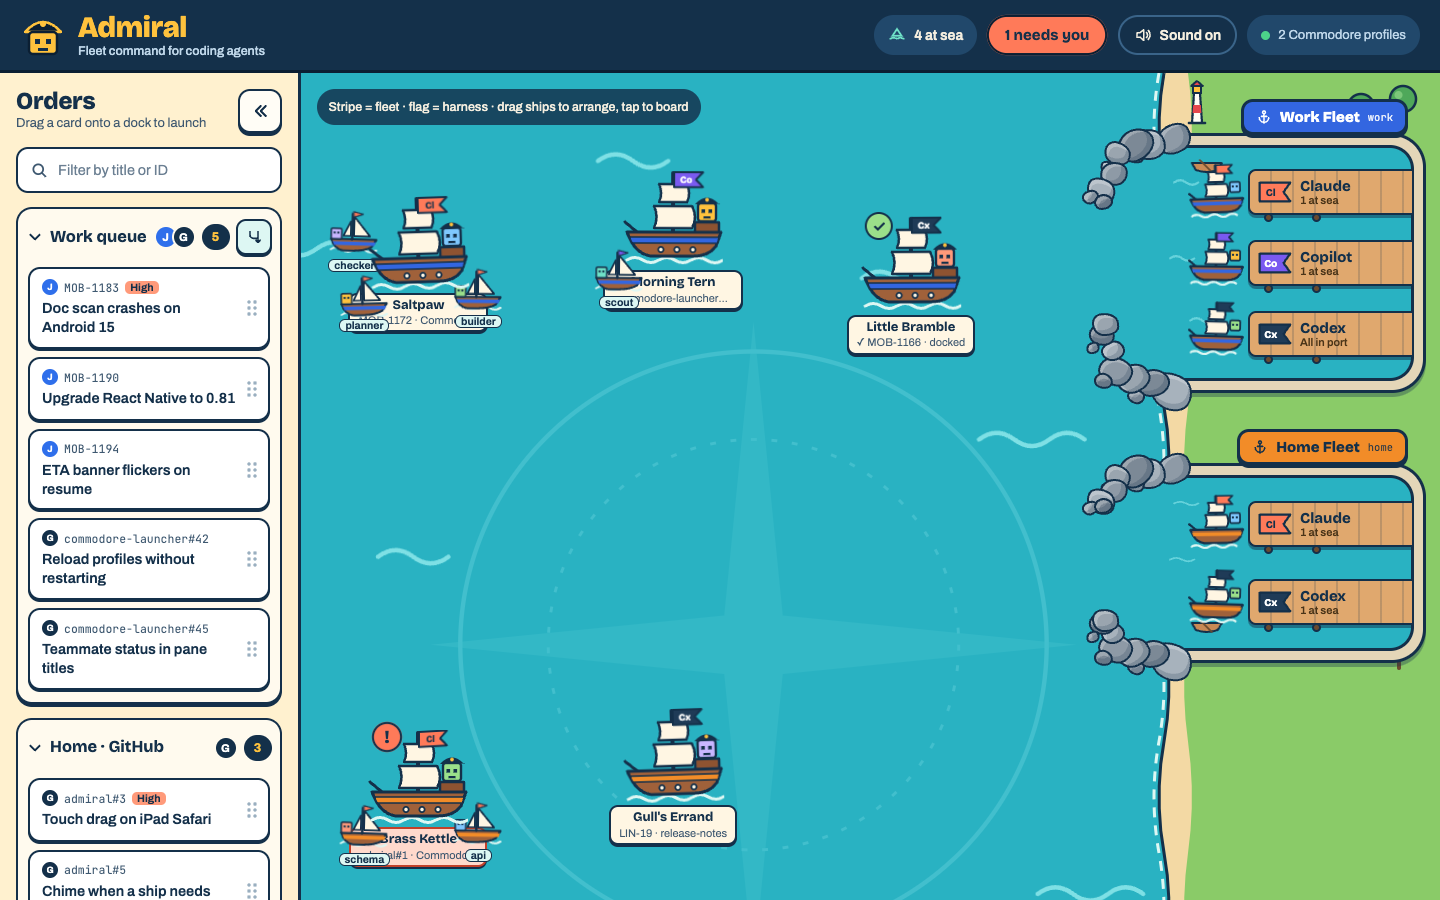
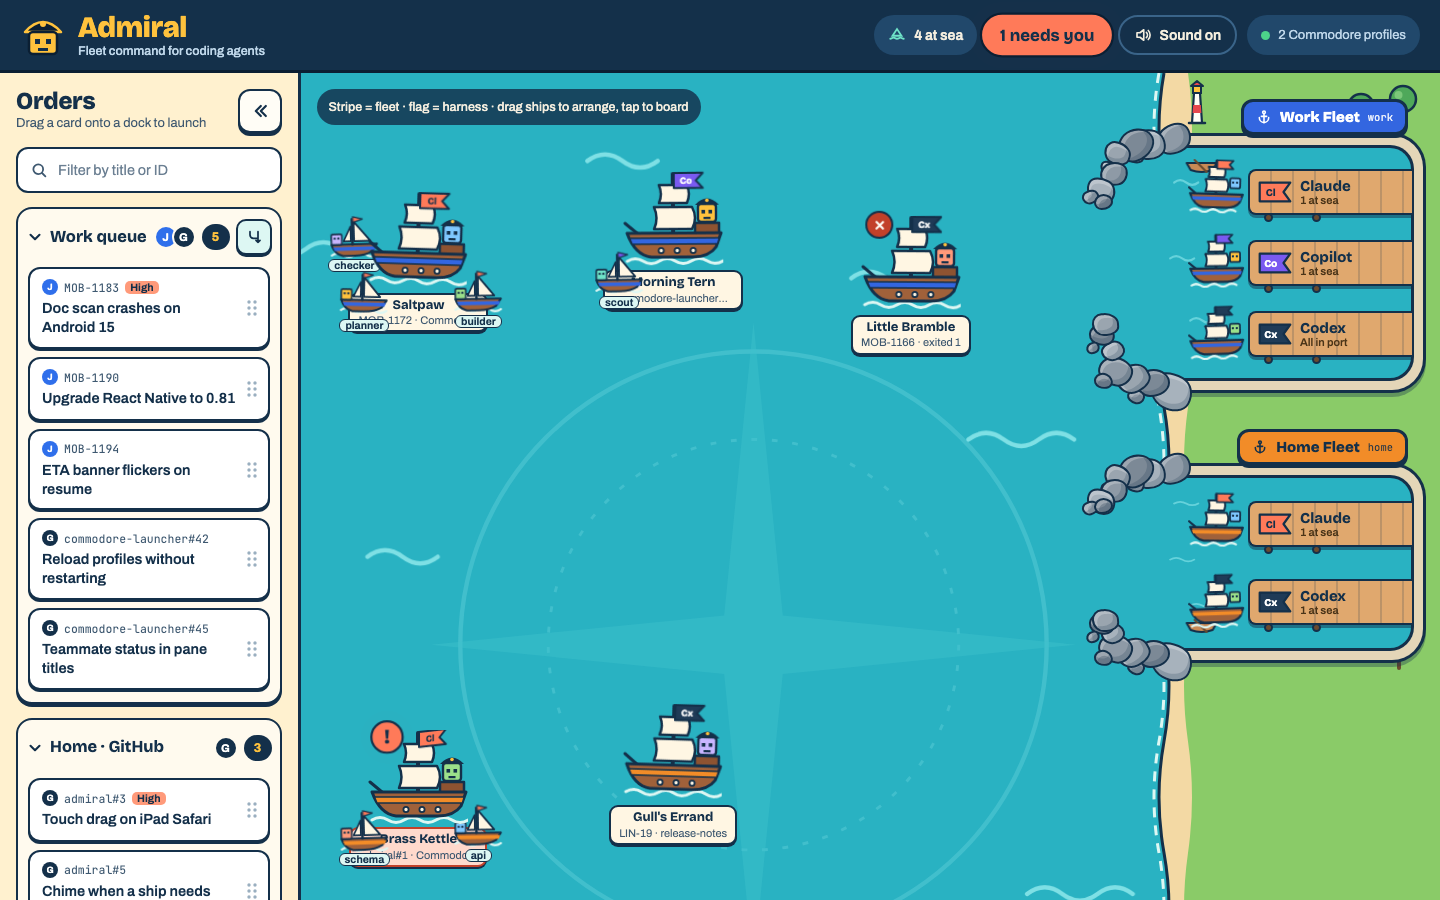
Show anchored ships as crashed in the prototype
An anchored ship only stays after an error exit (ADR 0008), so it now
carries a red mark and its exit code instead of a green check. Its
bridge is read-only on the last screen, with Dismiss in place of the
prompt and keys. Re-capture the harbor and tablet screenshots.

diff --git a/designs/prototype/index.html b/designs/prototype/index.html
@@ -63,6 +63,7 @@ a{color:#1C6FD1}a:hover{color:#14304A}
 .ln-tool{color:#6FE3C8}
 .ln-ask{color:#14304A;background:#FFC23D;border-radius:6px;padding:6px 10px;margin:4px 0}
 .ln-you{color:#FFC23D}
+.ln-err{color:#FF9A7A}
 .key{transition:background-color .12s ease}
 .key:hover{background-color:#2A5579 !important}
 .term-in::placeholder{color:#5F7F99}
@@ -260,7 +261,7 @@ a{color:#1C6FD1}a:hover{color:#14304A}
 <span class="ping" style="position: absolute; left: 4px; top: -8px; width: 30px; height: 30px; border-radius: 50%; background-color: #FF7A59; border: 2.5px solid #14304A; display: flex; align-items: center; justify-content: center; font-family: 'Bricolage Grotesque', sans-serif; font-weight: 800; font-size: 18px; color: #14304A">!</span>
 </sc-if>
 <sc-if value="{{ship.done}}" hint-placeholder-val="{{ false }}">
-<span style="position: absolute; left: 4px; top: -4px; width: 28px; height: 28px; border-radius: 50%; background-color: #9BE08A; border: 2.5px solid #14304A; display: flex; align-items: center; justify-content: center"><svg width="15" height="15" viewBox="0 0 24 24" fill="none" stroke="#14304A" stroke-width="3.4" stroke-linecap="round" stroke-linejoin="round" aria-hidden="true"><path d="M5 12.5l4.5 4.5L19 7.5"></path></svg></span>
+<span style="position: absolute; left: 4px; top: -4px; width: 28px; height: 28px; border-radius: 50%; background-color: #C2412A; border: 2.5px solid #14304A; display: flex; align-items: center; justify-content: center"><svg width="13" height="13" viewBox="0 0 24 24" fill="none" stroke="#FFFDF6" stroke-width="4" stroke-linecap="round" aria-hidden="true"><path d="M6 6l12 12M18 6L6 18"></path></svg></span>
 </sc-if>
 </span>
 <span style="{{ship.plaqueStyle}}">
@@ -381,13 +382,21 @@ a{color:#1C6FD1}a:hover{color:#14304A}
 <sc-for list="{{bridge.lines}}" as="line" hint-placeholder-count="6">
 <div class="{{line.cls}}">{{line.t}}</div>
 </sc-for>
+<sc-if value="{{bridge.live}}" hint-placeholder-val="{{ true }}">
 <form onSubmit="{{send}}" style="display: flex; align-items: center; gap: 8px; margin-top: 4px">
 <label for="adm-cmd" style="position: absolute; width: 1px; height: 1px; overflow: hidden; clip: rect(0 0 0 0)">Input to {{bridge.focusName}}</label>
 <span aria-hidden="true" style="color: #FFC23D; font-weight: 600">❯</span>
 <input id="adm-cmd" class="term-in" value="{{draft}}" onChange="{{onDraft}}" autocomplete="off" spellcheck="false" placeholder="type here and press Enter" style="flex: 1 1 auto; min-width: 0; height: 32px; padding: 0; border: 0; background: none; color: #FFC23D; font-family: 'JetBrains Mono', monospace; font-size: 13.5px; outline: none; caret-color: #FFC23D">
 </form>
+</sc-if>
 </div>
 <div style="display: flex; flex-wrap: wrap; align-items: center; gap: 8px; padding: 10px 12px; background-color: #14304A; border-top: 3px solid #0B1F33">
+<sc-if value="{{bridge.anchored}}" hint-placeholder-val="{{ false }}">
+<button type="button" class="press" onClick="{{dismiss}}" style="height: 40px; padding: 0 14px; border-radius: 10px; border: 2.5px solid #0B1F33; background-color: #FFF6E3; color: #14304A; font-family: 'Bricolage Grotesque', sans-serif; font-weight: 700; font-size: 14px; box-shadow: 0 3px 0 #0B1F33">Dismiss</button>
+<span style="flex: 1 1 auto"></span>
+<span style="font-size: 12px; color: #9DB8CF">The harness exited. This is its last screen.</span>
+</sc-if>
+<sc-if value="{{bridge.live}}" hint-placeholder-val="{{ true }}">
 <sc-if value="{{bridge.asking}}" hint-placeholder-val="{{ false }}">
 <button type="button" class="press" onClick="{{answerYes}}" style="height: 40px; padding: 0 14px; border-radius: 10px; border: 2.5px solid #0B1F33; background-color: #9BE08A; color: #14304A; font-family: 'Bricolage Grotesque', sans-serif; font-weight: 700; font-size: 14px; box-shadow: 0 3px 0 #0B1F33">Approve · y</button>
 <button type="button" class="press" onClick="{{answerNo}}" style="height: 40px; padding: 0 14px; border-radius: 10px; border: 2.5px solid #0B1F33; background-color: #FF9A7A; color: #14304A; font-family: 'Bricolage Grotesque', sans-serif; font-weight: 700; font-size: 14px; box-shadow: 0 3px 0 #0B1F33">Deny · n</button>
@@ -398,6 +407,7 @@ a{color:#1C6FD1}a:hover{color:#14304A}
 </sc-for>
 <span style="flex: 1 1 auto"></span>
 <span style="font-size: 12px; color: #9DB8CF">Keys go straight to the session</span>
+</sc-if>
 </div>
 </section>
 </div>
@@ -715,7 +725,7 @@ class Component extends DCLogic {
       { id: 's3', name: 'Brass Kettle', task: { id: 'admiral#1', title: 'Scaffold the Admiral server' }, yard: 'home:claude', skill: 'Commodore', status: 'attention', bot: B[2],
         ask: 'Teammate schema wants to run a migration on the dev database. Approve? (y/n)',
         subs: [{ id: 's3-a', name: 'schema', job: 'Model fleets, docks and ships', bot: B[3] }, { id: 's3-b', name: 'api', job: 'Session attach endpoint', bot: B[0] }] },
-      { id: 's4', name: 'Little Bramble', task: { id: 'MOB-1166', title: 'Crash report breadcrumbs' }, yard: 'work:codex', skill: 'Wayfinder', status: 'done', bot: B[3], subs: [] },
+      { id: 's4', name: 'Little Bramble', task: { id: 'MOB-1166', title: 'Crash report breadcrumbs' }, yard: 'work:codex', skill: 'Wayfinder', status: 'done', exit: 1, bot: B[3], subs: [] },
       { id: 's5', name: "Gull's Errand", task: { id: 'LIN-19', title: 'Draft the changelog' }, yard: 'home:codex', skill: 'release-notes', status: 'working', bot: B[4], subs: [] }
     ];
   }
@@ -888,7 +898,7 @@ class Component extends DCLogic {
       L.push({ k: 'tool', t: '▸ exploring the codebase' });
     }
     if (sh.status === 'attention') L.push({ k: 'ask', t: sh.ask || 'Waiting on you.' });
-    else if (sh.status === 'done') { L.push({ k: 'tool', t: '✓ pull request opened · checks green' }); L.push({ k: 'agent', t: 'Mission complete. Standing by in port.' }); }
+    else if (sh.status === 'done') { L.push({ k: 'err', t: 'Error: stream disconnected before completion' }); L.push({ k: 'sys', t: 'Pane is dead (status ' + sh.exit + ')' }); }
     else L.push({ k: 'agent', t: 'Underway.' });
     return L;
   }
@@ -999,7 +1009,7 @@ class Component extends DCLogic {
       const pl = s.place[sh.id];
       const attn = sh.status === 'attention';
       const done = sh.status === 'done';
-      const statusText = attn ? 'needs your attention' : done ? 'mission complete' : 'underway';
+      const statusText = attn ? 'needs your attention' : done ? 'anchored, exited ' + sh.exit : 'underway';
       return {
         id: sh.id, name: sh.name, task: sh.task, skill: sh.skill, bot: sh.bot,
         harness: h.name, fleetName: f.name, fleetColor: f.color, flag: h.flag, flagInk: h.ink, mono: h.mono,
@@ -1010,7 +1020,7 @@ class Component extends DCLogic {
         delay: '-' + (i * 0.8).toFixed(1) + 's',
         flagCls: attn ? 'flag frantic' : 'flag wave',
         attn, done,
-        label: done ? '✓ ' + sh.task.id + ' · anchored' : sh.task.id + ' · ' + sh.skill,
+        label: done ? sh.task.id + ' · exited ' + sh.exit : sh.task.id + ' · ' + sh.skill,
         plaqueStyle: 'display: block; margin-top: -2px; padding: 3px 8px; max-width: 140px; border-radius: 9px; background-color: ' + (attn ? '#FFD9CC' : '#FFF6E3') + '; border: 2.5px solid ' + (attn ? '#C2412A' : '#14304A') + '; box-shadow: 0 2px 0 #14304A',
         aria: 'Board ' + sh.name + ', ' + h.name + ' in ' + f.name + ', ' + statusText,
         open: () => { if (!self.recentDrag()) self.put({ open: sh.id, focus: 'lead', draft: '' }); },
@@ -1047,8 +1057,9 @@ class Component extends DCLogic {
           ship: sh, agents, lines, focusName: focusAgent.label,
           crewCount: list.length,
           asking: sh.attn && focusAgent.id === 'lead',
-          statusText: sh.attn ? 'Needs you' : sh.done ? 'Anchored' : 'Underway',
-          statusStyle: 'font-family: Bricolage Grotesque, sans-serif; font-weight: 700; font-size: 13px; padding: 4px 12px; border-radius: 999px; border: 2px solid #14304A; color: #14304A; background-color: ' + (sh.attn ? '#FF7A59' : sh.done ? '#9BE08A' : '#6FE3C8')
+          live: !sh.done, anchored: sh.done,
+          statusText: sh.attn ? 'Needs you' : sh.done ? 'Anchored · exit ' + rawSh.exit : 'Underway',
+          statusStyle: 'font-family: Bricolage Grotesque, sans-serif; font-weight: 700; font-size: 13px; padding: 4px 12px; border-radius: 999px; border: 2px solid #14304A; color: #14304A; background-color: ' + (sh.attn ? '#FF7A59' : sh.done ? '#FF9A7A' : '#6FE3C8')
         };
       }
     }
@@ -1110,6 +1121,7 @@ class Component extends DCLogic {
       answerYes: () => self.sendRaw('y', { k: 'tool', t: '✓ approved. Carrying on.' }),
       answerNo: () => self.sendRaw('n', { k: 'agent', t: 'Understood. Trying another approach.' }),
       closeBridge: () => self.put({ open: null, draft: '' }),
+      dismiss: () => self.put((st) => ({ open: null, draft: '', ships: st.ships.filter((x) => x.id !== st.open) })),
       draft: s.draft || '',
       onDraft: (e) => self.put({ draft: e.target.value }),
       send: (e) => self.send(e),

diff --git a/designs/canvas/Main.dc.html b/designs/canvas/Main.dc.html
@@ -61,6 +61,7 @@ a{color:#1C6FD1}a:hover{color:#14304A}
 .ln-tool{color:#6FE3C8}
 .ln-ask{color:#14304A;background:#FFC23D;border-radius:6px;padding:6px 10px;margin:4px 0}
 .ln-you{color:#FFC23D}
+.ln-err{color:#FF9A7A}
 .key{transition:background-color .12s ease}
 .key:hover{background-color:#2A5579 !important}
 .term-in::placeholder{color:#5F7F99}
@@ -253,7 +254,7 @@ a{color:#1C6FD1}a:hover{color:#14304A}
 <span class="ping" style="position: absolute; left: 4px; top: -8px; width: 30px; height: 30px; border-radius: 50%; background-color: #FF7A59; border: 2.5px solid #14304A; display: flex; align-items: center; justify-content: center; font-family: 'Bricolage Grotesque', sans-serif; font-weight: 800; font-size: 18px; color: #14304A">!</span>
 </sc-if>
 <sc-if value="{{ship.done}}" hint-placeholder-val="{{ false }}">
-<span style="position: absolute; left: 4px; top: -4px; width: 28px; height: 28px; border-radius: 50%; background-color: #9BE08A; border: 2.5px solid #14304A; display: flex; align-items: center; justify-content: center"><svg width="15" height="15" viewBox="0 0 24 24" fill="none" stroke="#14304A" stroke-width="3.4" stroke-linecap="round" stroke-linejoin="round" aria-hidden="true"><path d="M5 12.5l4.5 4.5L19 7.5"></path></svg></span>
+<span style="position: absolute; left: 4px; top: -4px; width: 28px; height: 28px; border-radius: 50%; background-color: #C2412A; border: 2.5px solid #14304A; display: flex; align-items: center; justify-content: center"><svg width="13" height="13" viewBox="0 0 24 24" fill="none" stroke="#FFFDF6" stroke-width="4" stroke-linecap="round" aria-hidden="true"><path d="M6 6l12 12M18 6L6 18"></path></svg></span>
 </sc-if>
 </span>
 <span style="{{ship.plaqueStyle}}">
@@ -374,13 +375,21 @@ a{color:#1C6FD1}a:hover{color:#14304A}
 <sc-for list="{{bridge.lines}}" as="line" hint-placeholder-count="6">
 <div class="{{line.cls}}">{{line.t}}</div>
 </sc-for>
+<sc-if value="{{bridge.live}}" hint-placeholder-val="{{ true }}">
 <form onSubmit="{{send}}" style="display: flex; align-items: center; gap: 8px; margin-top: 4px">
 <label for="adm-cmd" style="position: absolute; width: 1px; height: 1px; overflow: hidden; clip: rect(0 0 0 0)">Input to {{bridge.focusName}}</label>
 <span aria-hidden="true" style="color: #FFC23D; font-weight: 600">❯</span>
 <input id="adm-cmd" class="term-in" value="{{draft}}" onChange="{{onDraft}}" autocomplete="off" spellcheck="false" placeholder="type here and press Enter" style="flex: 1 1 auto; min-width: 0; height: 32px; padding: 0; border: 0; background: none; color: #FFC23D; font-family: 'JetBrains Mono', monospace; font-size: 13.5px; outline: none; caret-color: #FFC23D">
 </form>
+</sc-if>
 </div>
 <div style="display: flex; flex-wrap: wrap; align-items: center; gap: 8px; padding: 10px 12px; background-color: #14304A; border-top: 3px solid #0B1F33">
+<sc-if value="{{bridge.anchored}}" hint-placeholder-val="{{ false }}">
+<button type="button" class="press" onClick="{{dismiss}}" style="height: 40px; padding: 0 14px; border-radius: 10px; border: 2.5px solid #0B1F33; background-color: #FFF6E3; color: #14304A; font-family: 'Bricolage Grotesque', sans-serif; font-weight: 700; font-size: 14px; box-shadow: 0 3px 0 #0B1F33">Dismiss</button>
+<span style="flex: 1 1 auto"></span>
+<span style="font-size: 12px; color: #9DB8CF">The harness exited. This is its last screen.</span>
+</sc-if>
+<sc-if value="{{bridge.live}}" hint-placeholder-val="{{ true }}">
 <sc-if value="{{bridge.asking}}" hint-placeholder-val="{{ false }}">
 <button type="button" class="press" onClick="{{answerYes}}" style="height: 40px; padding: 0 14px; border-radius: 10px; border: 2.5px solid #0B1F33; background-color: #9BE08A; color: #14304A; font-family: 'Bricolage Grotesque', sans-serif; font-weight: 700; font-size: 14px; box-shadow: 0 3px 0 #0B1F33">Approve · y</button>
 <button type="button" class="press" onClick="{{answerNo}}" style="height: 40px; padding: 0 14px; border-radius: 10px; border: 2.5px solid #0B1F33; background-color: #FF9A7A; color: #14304A; font-family: 'Bricolage Grotesque', sans-serif; font-weight: 700; font-size: 14px; box-shadow: 0 3px 0 #0B1F33">Deny · n</button>
@@ -391,6 +400,7 @@ a{color:#1C6FD1}a:hover{color:#14304A}
 </sc-for>
 <span style="flex: 1 1 auto"></span>
 <span style="font-size: 12px; color: #9DB8CF">Keys go straight to the session</span>
+</sc-if>
 </div>
 </section>
 </div>
@@ -573,7 +583,7 @@ class Component extends DCLogic {
       { id: 's3', name: 'Brass Kettle', task: { id: 'admiral#1', title: 'Scaffold the Admiral server' }, yard: 'home:claude', skill: 'Commodore', status: 'attention', bot: B[2],
         ask: 'Teammate schema wants to run a migration on the dev database. Approve? (y/n)',
         subs: [{ id: 's3-a', name: 'schema', job: 'Model fleets, docks and ships', bot: B[3] }, { id: 's3-b', name: 'api', job: 'Session attach endpoint', bot: B[0] }] },
-      { id: 's4', name: 'Little Bramble', task: { id: 'MOB-1166', title: 'Crash report breadcrumbs' }, yard: 'work:codex', skill: 'Wayfinder', status: 'done', bot: B[3], subs: [] },
+      { id: 's4', name: 'Little Bramble', task: { id: 'MOB-1166', title: 'Crash report breadcrumbs' }, yard: 'work:codex', skill: 'Wayfinder', status: 'done', exit: 1, bot: B[3], subs: [] },
       { id: 's5', name: "Gull's Errand", task: { id: 'LIN-19', title: 'Draft the changelog' }, yard: 'home:codex', skill: 'release-notes', status: 'working', bot: B[4], subs: [] }
     ];
   }
@@ -746,7 +756,7 @@ class Component extends DCLogic {
       L.push({ k: 'tool', t: '▸ exploring the codebase' });
     }
     if (sh.status === 'attention') L.push({ k: 'ask', t: sh.ask || 'Waiting on you.' });
-    else if (sh.status === 'done') { L.push({ k: 'tool', t: '✓ pull request opened · checks green' }); L.push({ k: 'agent', t: 'Mission complete. Standing by in port.' }); }
+    else if (sh.status === 'done') { L.push({ k: 'err', t: 'Error: stream disconnected before completion' }); L.push({ k: 'sys', t: 'Pane is dead (status ' + sh.exit + ')' }); }
     else L.push({ k: 'agent', t: 'Underway.' });
     return L;
   }
@@ -857,7 +867,7 @@ class Component extends DCLogic {
       const pl = s.place[sh.id];
       const attn = sh.status === 'attention';
       const done = sh.status === 'done';
-      const statusText = attn ? 'needs your attention' : done ? 'mission complete' : 'underway';
+      const statusText = attn ? 'needs your attention' : done ? 'anchored, exited ' + sh.exit : 'underway';
       return {
         id: sh.id, name: sh.name, task: sh.task, skill: sh.skill, bot: sh.bot,
         harness: h.name, fleetName: f.name, fleetColor: f.color, flag: h.flag, flagInk: h.ink, mono: h.mono,
@@ -868,7 +878,7 @@ class Component extends DCLogic {
         delay: '-' + (i * 0.8).toFixed(1) + 's',
         flagCls: attn ? 'flag frantic' : 'flag wave',
         attn, done,
-        label: done ? '✓ ' + sh.task.id + ' · anchored' : sh.task.id + ' · ' + sh.skill,
+        label: done ? sh.task.id + ' · exited ' + sh.exit : sh.task.id + ' · ' + sh.skill,
         plaqueStyle: 'display: block; margin-top: -2px; padding: 3px 8px; max-width: 140px; border-radius: 9px; background-color: ' + (attn ? '#FFD9CC' : '#FFF6E3') + '; border: 2.5px solid ' + (attn ? '#C2412A' : '#14304A') + '; box-shadow: 0 2px 0 #14304A',
         aria: 'Board ' + sh.name + ', ' + h.name + ' in ' + f.name + ', ' + statusText,
         open: () => { if (!self.recentDrag()) self.put({ open: sh.id, focus: 'lead', draft: '' }); },
@@ -905,8 +915,9 @@ class Component extends DCLogic {
           ship: sh, agents, lines, focusName: focusAgent.label,
           crewCount: list.length,
           asking: sh.attn && focusAgent.id === 'lead',
-          statusText: sh.attn ? 'Needs you' : sh.done ? 'Anchored' : 'Underway',
-          statusStyle: 'font-family: Bricolage Grotesque, sans-serif; font-weight: 700; font-size: 13px; padding: 4px 12px; border-radius: 999px; border: 2px solid #14304A; color: #14304A; background-color: ' + (sh.attn ? '#FF7A59' : sh.done ? '#9BE08A' : '#6FE3C8')
+          live: !sh.done, anchored: sh.done,
+          statusText: sh.attn ? 'Needs you' : sh.done ? 'Anchored · exit ' + rawSh.exit : 'Underway',
+          statusStyle: 'font-family: Bricolage Grotesque, sans-serif; font-weight: 700; font-size: 13px; padding: 4px 12px; border-radius: 999px; border: 2px solid #14304A; color: #14304A; background-color: ' + (sh.attn ? '#FF7A59' : sh.done ? '#FF9A7A' : '#6FE3C8')
         };
       }
     }
@@ -968,6 +979,7 @@ class Component extends DCLogic {
       answerYes: () => self.sendRaw('y', { k: 'tool', t: '✓ approved. Carrying on.' }),
       answerNo: () => self.sendRaw('n', { k: 'agent', t: 'Understood. Trying another approach.' }),
       closeBridge: () => self.put({ open: null, draft: '' }),
+      dismiss: () => self.put((st) => ({ open: null, draft: '', ships: st.ships.filter((x) => x.id !== st.open) })),
       draft: s.draft || '',
       onDraft: (e) => self.put({ draft: e.target.value }),
       send: (e) => self.send(e),

diff --git a/designs/canvas/Ships.dc.html b/designs/canvas/Ships.dc.html
@@ -29,7 +29,7 @@ body{margin:0}
 <span style="font-family: 'Bricolage Grotesque', sans-serif; font-weight: 700; font-size: 15px; color: #14304A">Motion</span>
 <span>Underway: slow bob, flag ripples.</span>
 <span>Needs you: shakes, flag waves fast, a chime plays.</span>
-<span>Anchored: still water, check badge.</span>
+<span>Anchored: still water, red mark, exit code on the plaque.</span>
 </div>
 </div>
 
@@ -82,7 +82,7 @@ body{margin:0}
 <span style="position: absolute; left: 20px; top: 4px; width: 32px; height: 32px; border-radius: 50%; background-color: #FF7A59; border: 2.5px solid #14304A; display: flex; align-items: center; justify-content: center; font-family: 'Bricolage Grotesque', sans-serif; font-weight: 800; font-size: 19px">!</span>
 </sc-if>
 <sc-if value="{{it.done}}" hint-placeholder-val="{{ false }}">
-<span style="position: absolute; left: 20px; top: 6px; width: 30px; height: 30px; border-radius: 50%; background-color: #9BE08A; border: 2.5px solid #14304A; display: flex; align-items: center; justify-content: center"><svg width="16" height="16" viewBox="0 0 24 24" fill="none" stroke="#14304A" stroke-width="3.4" stroke-linecap="round" stroke-linejoin="round" aria-hidden="true"><path d="M5 12.5l4.5 4.5L19 7.5"></path></svg></span>
+<span style="position: absolute; left: 20px; top: 6px; width: 30px; height: 30px; border-radius: 50%; background-color: #C2412A; border: 2.5px solid #14304A; display: flex; align-items: center; justify-content: center"><svg width="14" height="14" viewBox="0 0 24 24" fill="none" stroke="#FFFDF6" stroke-width="4" stroke-linecap="round" aria-hidden="true"><path d="M6 6l12 12M18 6L6 18"></path></svg></span>
 </sc-if>
 </div>
 <span style="padding: 4px 12px; border-radius: 10px; background-color: #FFF6E3; border: 2.5px solid #14304A; box-shadow: 0 2px 0 #14304A; text-align: center">
@@ -113,7 +113,7 @@ class Component extends DCLogic {
         { title: 'State', items: [
           ship({ title: 'Underway', caption: 'Working on its task', flag: '#FF7A59', ink: '#14304A', mono: 'Cl' }),
           ship({ title: 'Needs you', caption: 'Shakes and chimes', flag: '#7A5AF0', ink: '#FFFFFF', mono: 'Co', bot: '#FFC23D', attn: true }),
-          ship({ title: 'Anchored', caption: 'Harness exited', flag: '#1F3B57', ink: '#FFFFFF', mono: 'Cx', bot: '#9BE08A', fleet: '#F28C28', done: true }),
+          ship({ title: 'Anchored', caption: 'Harness exited with an error', flag: '#1F3B57', ink: '#FFFFFF', mono: 'Cx', bot: '#9BE08A', fleet: '#F28C28', done: true }),
           { isShip: false, isSub: true, attn: false, done: false, title: 'Crew boat', caption: 'Teammate or subagent' }
         ] }
       ]
